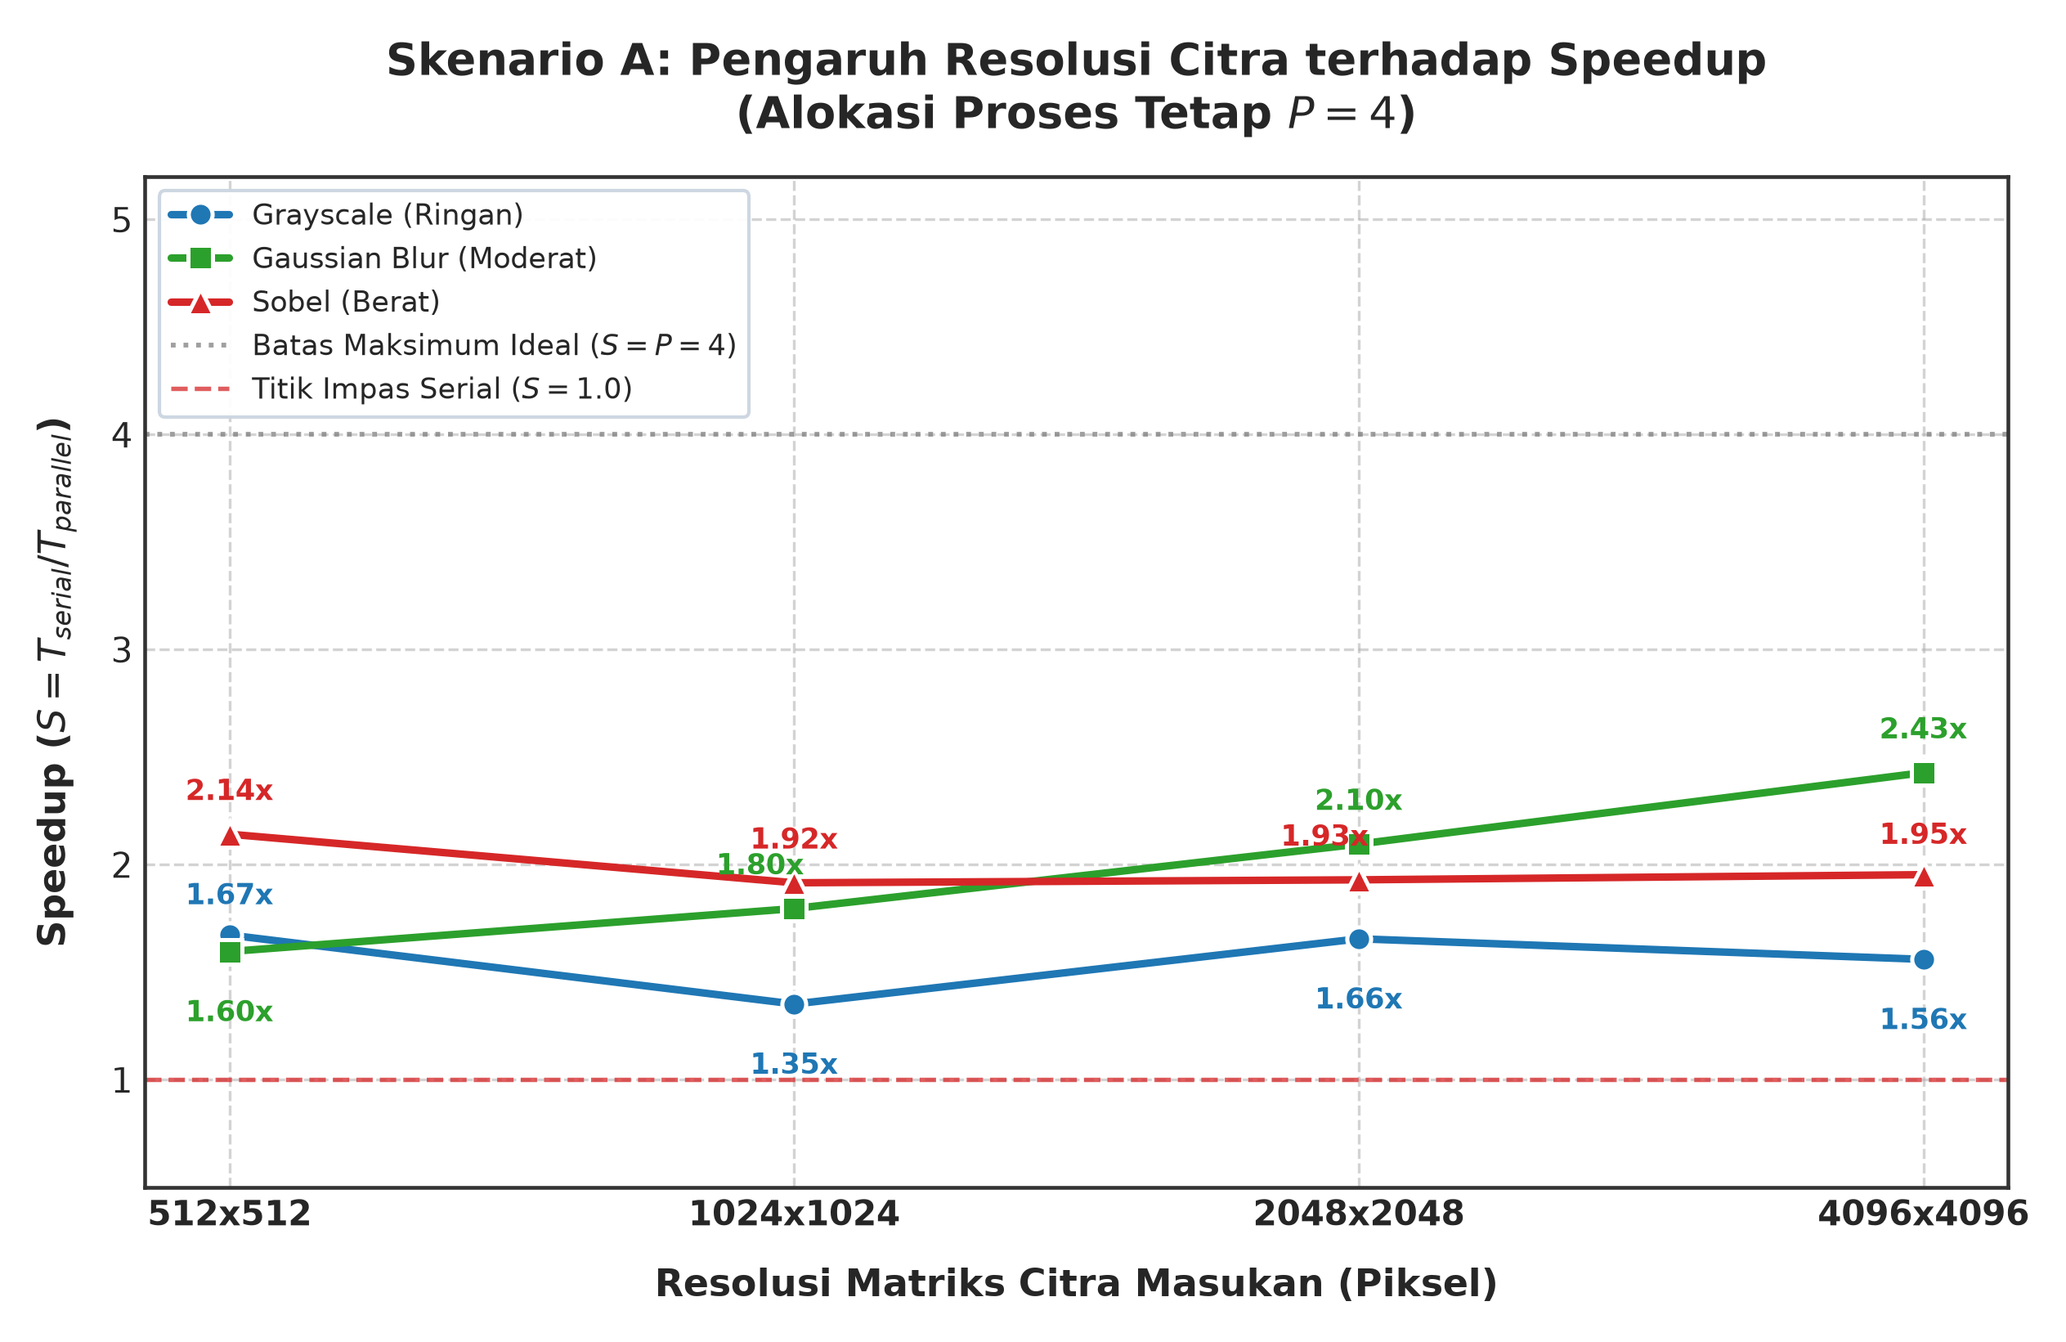
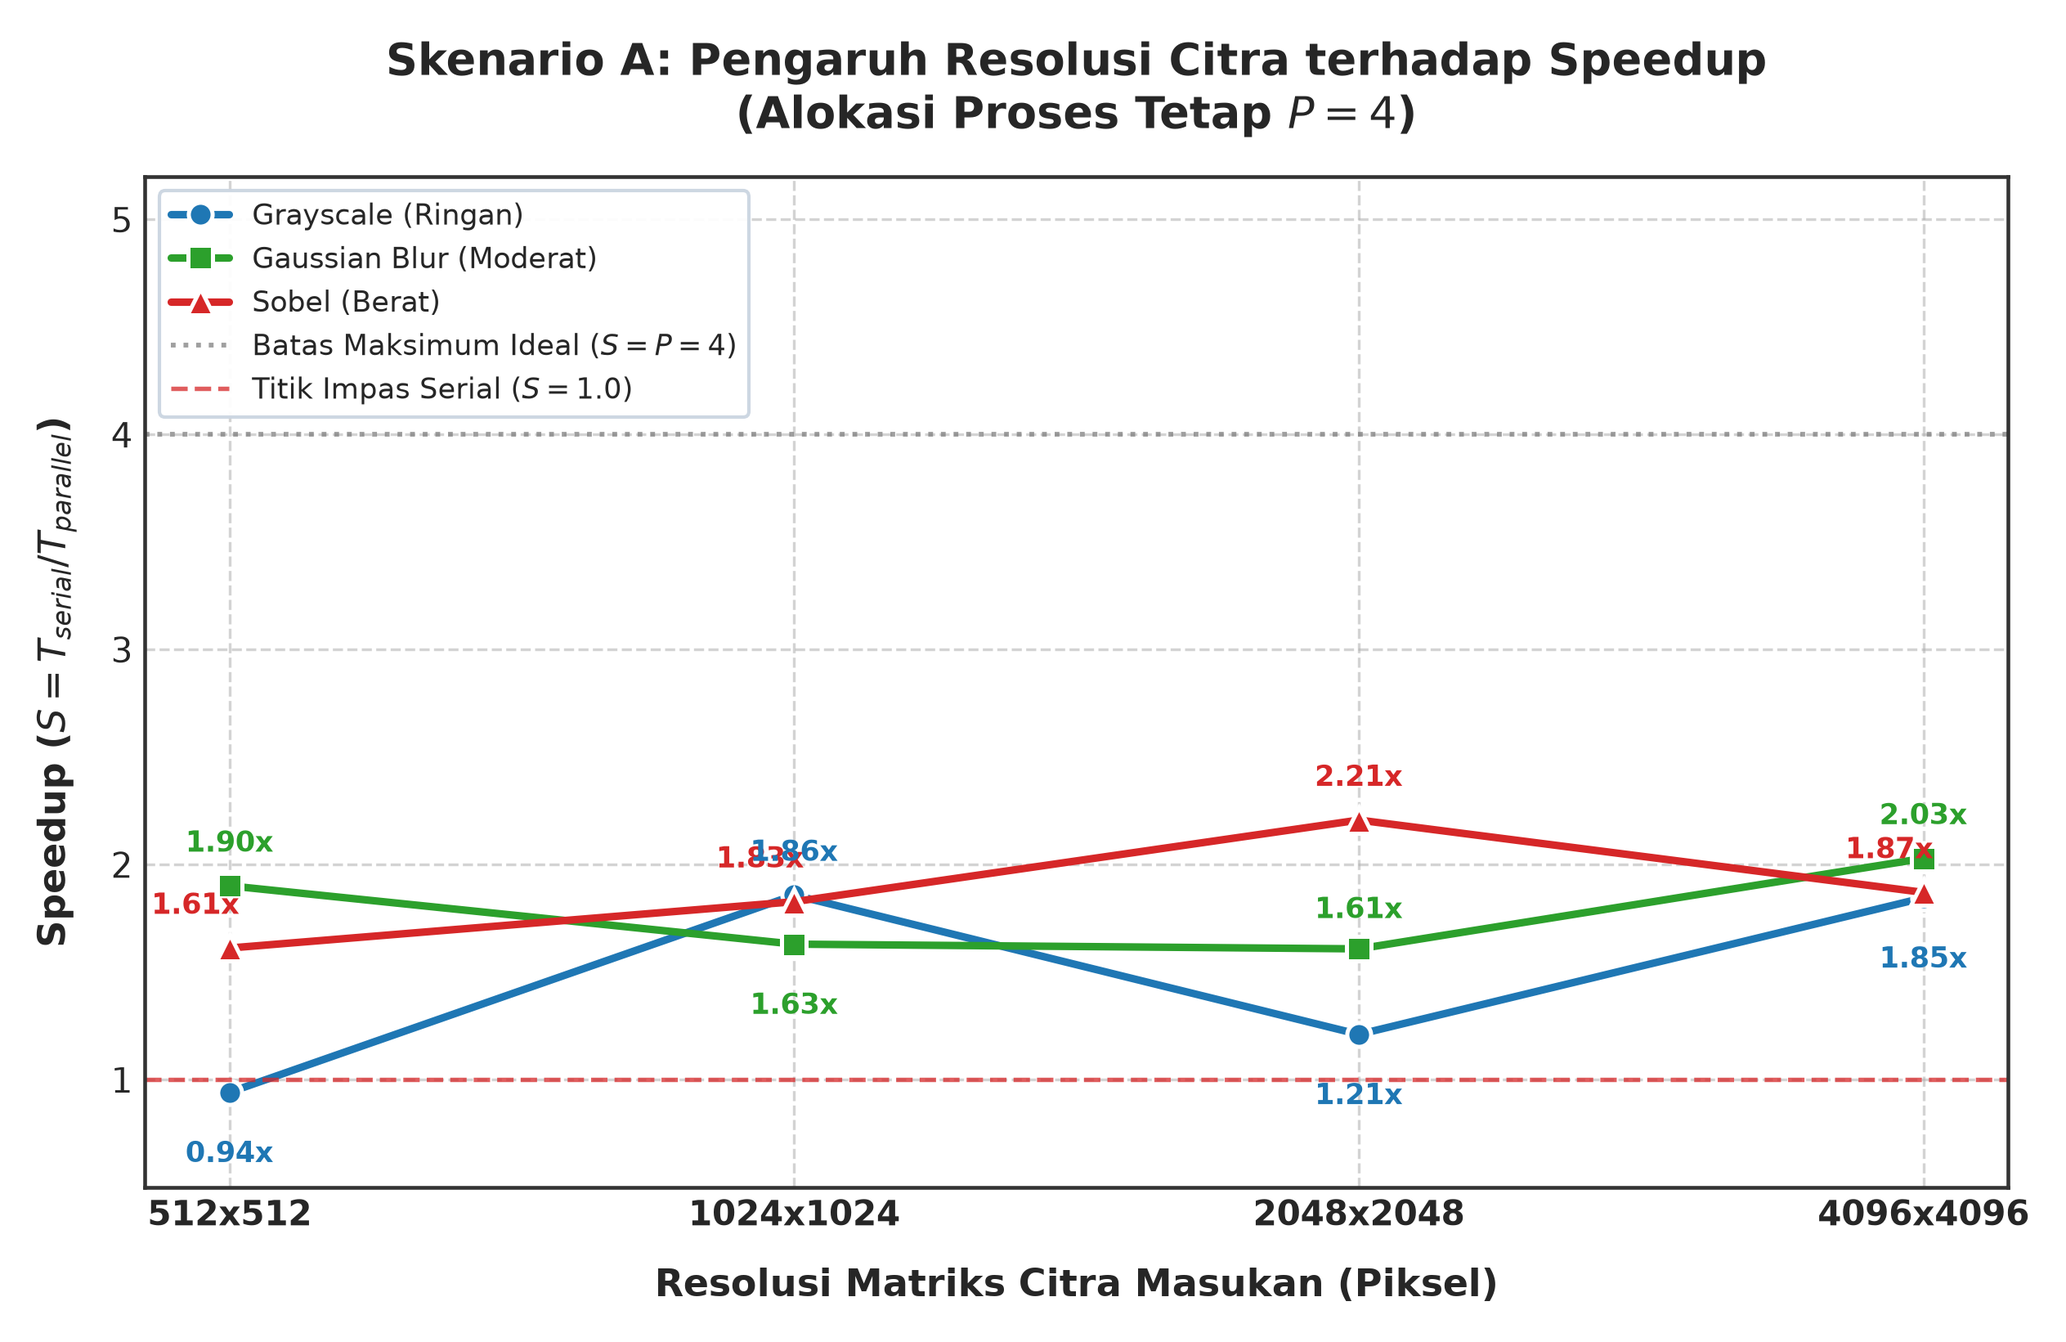
feat(visualization): add chart download features (interactive canvas PNG and publication 300 DPI plots)

diff --git a/web/templates/index.html b/web/templates/index.html
@@ -550,12 +550,15 @@
               </table>
             </div>
 
-            <div class="grid gap-3 sm:grid-cols-3">
+            <div class="grid gap-3 sm:grid-cols-2 lg:grid-cols-4">
               <button class="btn btn-secondary" id="bench-dl-raw" type="button" disabled>
                 <span data-icon="download"></span><span class="btn-label">Data Mentah</span>
               </button>
               <button class="btn btn-secondary" id="bench-dl-summary" type="button" disabled>
                 <span data-icon="download"></span><span class="btn-label">Ringkasan</span>
+              </button>
+              <button class="btn btn-secondary" id="bench-dl-plots" type="button" disabled title="Unduh kumpulan gambar grafik publikasi ilmiah (300 DPI) dalam format ZIP">
+                <span data-icon="image"></span><span class="btn-label">Plot Laporan (300 DPI)</span>
               </button>
               <button class="btn btn-secondary" id="bench-chart-refresh" type="button" disabled>
                 <span data-icon="trending-up"></span><span class="btn-label">Segarkan Grafik</span>
@@ -647,6 +650,12 @@
               </div>
             </div>
 
+            <div class="flex items-center justify-between pt-1">
+              <span class="caption-small font-semibold text-text-muted">Kurva Karakteristik Amdahl vs Empiris</span>
+              <button class="btn btn-secondary text-xs py-1 px-2.5" id="btn-dl-amdahl-png" type="button" title="Unduh grafik simulasi Amdahl dalam format PNG">
+                <span data-icon="download"></span> Unduh PNG
+              </button>
+            </div>
             <div class="chart-wrap min-h-[340px]"><canvas id="amdahl-chart"></canvas></div>
             <p class="caption-small">
               Titik-titik empiris (jika tersedia) diambil dari hasil Skenario B pada CSV
@@ -668,28 +677,76 @@
             <span class="badge-capsule">Visualisasi Empiris</span>
           </div>
           <div class="card-body space-y-4">
-            <div>
-              <label class="form-label" for="plot-select">Pilih Grafik Analisis Dinamis</label>
-              <select class="select-input" id="plot-select">
-                <option value="A">Skenario A: Pengaruh Resolusi Citra (512&ndash;4096 px)</option>
-                <option value="B">Skenario B: Skalabilitas Worker &amp; Saturasi Core (P=1..8)</option>
-                <option value="C">Skenario C: Efisiensi Berdasarkan Kompleksitas Algoritma</option>
-              </select>
+            <div class="flex flex-col sm:flex-row sm:items-end justify-between gap-3 border-b border-border/70 pb-3">
+              <div class="flex-1">
+                <label class="form-label" for="plot-select">Pilih Grafik Analisis Dinamis</label>
+                <select class="select-input" id="plot-select">
+                  <option value="A">Skenario A: Pengaruh Resolusi Citra (512&ndash;4096 px)</option>
+                  <option value="B">Skenario B: Skalabilitas Worker &amp; Saturasi Core (P=1..8)</option>
+                  <option value="C">Skenario C: Efisiensi Berdasarkan Kompleksitas Algoritma</option>
+                </select>
+              </div>
+              <div class="flex flex-wrap items-center gap-2">
+                <button class="btn btn-primary text-xs py-1.5 px-3" id="btn-dl-scenario-plot-300dpi" type="button" title="Unduh gambar standar publikasi 300 DPI Matplotlib untuk skenario ini">
+                  <span data-icon="image"></span> Unduh Plot 300 DPI
+                </button>
+                <button class="btn btn-secondary text-xs py-1.5 px-3" id="btn-dl-all-plots-zip" type="button" title="Unduh seluruh plot publikasi ilmiah (A, B, C) dalam satu file ZIP">
+                  <span data-icon="download"></span> Semua Plot (ZIP)
+                </button>
+              </div>
             </div>
 
             <p class="plot-empty-note" id="plot-empty" hidden></p>
 
             <div id="plot-wrap-a" class="space-y-4">
-              <div class="chart-wrap min-h-[260px]"><canvas id="chart-a-time"></canvas></div>
-              <div class="chart-wrap min-h-[260px]"><canvas id="chart-a-speedup"></canvas></div>
+              <div class="space-y-1">
+                <div class="flex items-center justify-between">
+                  <span class="caption-small font-semibold text-text-muted">Waktu Eksekusi Serial (Ts) vs Paralel (Tp)</span>
+                  <button class="btn btn-secondary text-[11px] py-1 px-2 btn-dl-canvas" data-canvas="chart-a-time" data-name="skenario_a_waktu_eksekusi" type="button">
+                    <span data-icon="download"></span> Unduh PNG
+                  </button>
+                </div>
+                <div class="chart-wrap min-h-[260px]"><canvas id="chart-a-time"></canvas></div>
+              </div>
+              <div class="space-y-1">
+                <div class="flex items-center justify-between">
+                  <span class="caption-small font-semibold text-text-muted">Grafik Speedup vs Resolusi Citra</span>
+                  <button class="btn btn-secondary text-[11px] py-1 px-2 btn-dl-canvas" data-canvas="chart-a-speedup" data-name="skenario_a_speedup" type="button">
+                    <span data-icon="download"></span> Unduh PNG
+                  </button>
+                </div>
+                <div class="chart-wrap min-h-[260px]"><canvas id="chart-a-speedup"></canvas></div>
+              </div>
             </div>
-            <div id="plot-wrap-b" hidden>
+            <div id="plot-wrap-b" class="space-y-1" hidden>
+              <div class="flex items-center justify-between">
+                <span class="caption-small font-semibold text-text-muted">Kurva Skalabilitas Worker (P=1..8) vs Batas Teoretis Amdahl</span>
+                <button class="btn btn-secondary text-[11px] py-1 px-2 btn-dl-canvas" data-canvas="chart-b" data-name="skenario_b_skalabilitas_worker" type="button">
+                  <span data-icon="download"></span> Unduh PNG
+                </button>
+              </div>
               <div class="chart-wrap min-h-[340px]"><canvas id="chart-b"></canvas></div>
             </div>
             <div id="plot-wrap-c" hidden>
               <div class="grid gap-3 sm:grid-cols-2">
-                <div class="chart-wrap min-h-[260px]"><canvas id="chart-c-speedup"></canvas></div>
-                <div class="chart-wrap min-h-[260px]"><canvas id="chart-c-eff"></canvas></div>
+                <div class="space-y-1">
+                  <div class="flex items-center justify-between">
+                    <span class="caption-small font-semibold text-text-muted">Speedup per Filter</span>
+                    <button class="btn btn-secondary text-[11px] py-1 px-2 btn-dl-canvas" data-canvas="chart-c-speedup" data-name="skenario_c_speedup" type="button">
+                      <span data-icon="download"></span> Unduh PNG
+                    </button>
+                  </div>
+                  <div class="chart-wrap min-h-[260px]"><canvas id="chart-c-speedup"></canvas></div>
+                </div>
+                <div class="space-y-1">
+                  <div class="flex items-center justify-between">
+                    <span class="caption-small font-semibold text-text-muted">Efisiensi Paralel per Filter (%)</span>
+                    <button class="btn btn-secondary text-[11px] py-1 px-2 btn-dl-canvas" data-canvas="chart-c-eff" data-name="skenario_c_efisiensi" type="button">
+                      <span data-icon="download"></span> Unduh PNG
+                    </button>
+                  </div>
+                  <div class="chart-wrap min-h-[260px]"><canvas id="chart-c-eff"></canvas></div>
+                </div>
               </div>
             </div>
           </div>

diff --git a/web/static/js/charts.js b/web/static/js/charts.js
@@ -104,6 +104,35 @@
     scales: baseScales(),
   });
 
+  /* ------------------------------------------------------------ export utilities */
+  ChartsTab.downloadCanvasAsPng = function (canvasId, fileName) {
+    const canvas = document.getElementById(canvasId);
+    if (!canvas) {
+      console.warn(`Canvas dengan ID "${canvasId}" tidak ditemukan.`);
+      return;
+    }
+    try {
+      // Buat canvas sementara berlatar putih pekat (mencegah latar transparan saat di-paste ke Word)
+      const exportCanvas = document.createElement("canvas");
+      exportCanvas.width = canvas.width;
+      exportCanvas.height = canvas.height;
+      const ctx = exportCanvas.getContext("2d");
+      ctx.fillStyle = "#FFFFFF";
+      ctx.fillRect(0, 0, exportCanvas.width, exportCanvas.height);
+      ctx.drawImage(canvas, 0, 0);
+
+      const url = exportCanvas.toDataURL("image/png");
+      const a = document.createElement("a");
+      a.href = url;
+      a.download = fileName.endsWith(".png") ? fileName : `${fileName}.png`;
+      document.body.appendChild(a);
+      a.click();
+      document.body.removeChild(a);
+    } catch (err) {
+      console.error("Gagal mengunduh canvas grafik:", err);
+    }
+  };
+
   /* ------------------------------------------------------------ init */
   ChartsTab.init = async function () {
     ChartsTab.booted = true;
@@ -111,6 +140,41 @@
     $("amdahl-f").addEventListener("input", ChartsTab.rebuildAmdahl);
     $("amdahl-p").addEventListener("input", ChartsTab.rebuildAmdahl);
     ChartsTab.rebuildAmdahl();
+
+    // Unduh PNG canvas simulasi Amdahl
+    const btnAmdahl = $("btn-dl-amdahl-png");
+    if (btnAmdahl) {
+      btnAmdahl.addEventListener("click", () => {
+        const f = Number($("amdahl-f").value).toFixed(2);
+        ChartsTab.downloadCanvasAsPng("amdahl-chart", `simulasi_kurva_hukum_amdahl_f${f}`);
+      });
+    }
+
+    // Unduh PNG per kanvas grafik empiris
+    document.querySelectorAll(".btn-dl-canvas").forEach((btn) => {
+      btn.addEventListener("click", () => {
+        const targetId = btn.getAttribute("data-canvas");
+        const name = btn.getAttribute("data-name") || "grafik_komputasi_paralel";
+        ChartsTab.downloadCanvasAsPng(targetId, name);
+      });
+    });
+
+    // Unduh plot publikasi ilmiah 300 DPI Matplotlib per skenario aktif
+    const btnScenPlot = $("btn-dl-scenario-plot-300dpi");
+    if (btnScenPlot) {
+      btnScenPlot.addEventListener("click", () => {
+        const which = $("plot-select").value || "A";
+        window.location.assign(`/api/benchmark/plots/single/${which}`);
+      });
+    }
+
+    // Unduh paket lengkap seluruh plot 300 DPI dalam arsip ZIP
+    const btnZip = $("btn-dl-all-plots-zip");
+    if (btnZip) {
+      btnZip.addEventListener("click", () => {
+        window.location.assign("/api/benchmark/plots/bundle/zip");
+      });
+    }
 
     $("plot-select").addEventListener("change", ChartsTab.renderScenario);
     await ChartsTab.refreshData();

diff --git a/web/static/js/benchmark.js b/web/static/js/benchmark.js
@@ -62,12 +62,16 @@
     $("bench-run").addEventListener("click", BenchTab.runBatch);
     $("bench-cancel").addEventListener("click", BenchTab.cancel);
 
-    // Unduhan CSV
-    ["bench-dl-raw", "bench-dl-summary"].forEach((id) => {
-      $(id).addEventListener("click", () => {
+    // Unduhan CSV & Plot Laporan
+    ["bench-dl-raw", "bench-dl-summary", "bench-dl-plots"].forEach((id) => {
+      const el = $(id);
+      if (!el) return;
+      el.addEventListener("click", () => {
         const url = id === "bench-dl-raw"
           ? "/api/benchmark/results/raw-csv"
-          : "/api/benchmark/results/summary-csv";
+          : id === "bench-dl-summary"
+          ? "/api/benchmark/results/summary-csv"
+          : "/api/benchmark/plots/bundle/zip";
         window.location.assign(url);
       });
     });
@@ -197,6 +201,7 @@
       $("bench-summary-details").hidden = true;
       $("bench-dl-raw").disabled = true;
       $("bench-dl-summary").disabled = true;
+      if ($("bench-dl-plots")) $("bench-dl-plots").disabled = true;
       $("bench-chart-refresh").disabled = true;
       App.setBtnLabel("bench-dl-raw", "Data Mentah");
       App.setBtnLabel("bench-dl-summary", "Ringkasan");
@@ -228,6 +233,7 @@
       .join("");
     $("bench-dl-raw").disabled = false;
     $("bench-dl-summary").disabled = false;
+    if ($("bench-dl-plots")) $("bench-dl-plots").disabled = false;
     App.setBtnLabel("bench-dl-raw", `Data Mentah (${res.count} Baris)`);
     $("bench-chart-refresh").disabled = false;
   };

diff --git a/web/backend/routes/benchmark.py b/web/backend/routes/benchmark.py
@@ -16,12 +16,14 @@ Endpoint:
 import io
 import json
 import logging
+import zipfile
+from pathlib import Path
 from typing import Any, Dict, List, Optional
 
 import numpy as np
 from fastapi import APIRouter, HTTPException
 from fastapi.concurrency import run_in_threadpool
-from fastapi.responses import StreamingResponse
+from fastapi.responses import FileResponse, StreamingResponse
 from pydantic import BaseModel, Field
 
 from ..services import bridge
@@ -277,6 +279,110 @@ async def export_summary_csv():
         headers={
             "Content-Disposition": (
                 'attachment; filename="benchmark_results_summary.csv"'
+            )
+        },
+    )
+
+
+# ---------------------------------------------------------------------------
+# Generator & Unduhan Plot Publikasi Ilmiah 300 DPI (Matplotlib)
+# ---------------------------------------------------------------------------
+def _ensure_plots_generated(force: bool = False) -> Dict[str, Path]:
+    csv_path = bridge.BENCH_CSV_PATH
+    if not csv_path.exists():
+        raise LookupError("Belum ada berkas CSV hasil benchmark untuk membuat grafik.")
+
+    plots_dir = bridge.RESULTS_DIR / "plots"
+    plots_dir.mkdir(parents=True, exist_ok=True)
+
+    from src.visualizer import plot_scenario_a, plot_scenario_b, plot_scenario_c
+
+    plot_files = {
+        "A": plots_dir / "skenario_a_resolusi.png",
+        "B": plots_dir / "skenario_b_amdahl.png",
+        "C": plots_dir / "skenario_c_kompleksitas.png",
+    }
+
+    csv_mtime = csv_path.stat().st_mtime
+    for scen, ppath in plot_files.items():
+        if force or not ppath.exists() or ppath.stat().st_mtime < csv_mtime:
+            try:
+                if scen == "A":
+                    plot_scenario_a(str(csv_path), output_path=str(ppath))
+                elif scen == "B":
+                    plot_scenario_b(str(csv_path), output_path=str(ppath))
+                elif scen == "C":
+                    plot_scenario_c(str(csv_path), output_path=str(ppath))
+            except Exception as exc:
+                logger.warning("Gagal men-generate plot Skenario %s: %s", scen, exc)
+
+    return plot_files
+
+
+def _build_plots_zip_bytes() -> bytes:
+    plot_files = _ensure_plots_generated(force=False)
+    buf = io.BytesIO()
+    with zipfile.ZipFile(buf, "w", zipfile.ZIP_DEFLATED) as z:
+        for scen, ppath in plot_files.items():
+            if ppath.exists():
+                z.write(ppath, arcname=ppath.name)
+        readme = (
+            "=========================================================================\n"
+            "PAKET GRAFIK PUBLIKASI ILMIAH KOMPUTASI PARALEL (300 DPI)\n"
+            "Laboratorium Komputasi Paralel & Pemrosesan Citra - FMIPA UNTAN\n"
+            "=========================================================================\n\n"
+            "Berkas grafik ini dihasilkan secara otomatis dari data empiris benchmark:\n"
+            "Lokasi data: results/benchmark_results_latest.csv\n\n"
+            "Daftar Grafik:\n"
+            "1. skenario_a_resolusi.png     : Kurva Speedup vs Variasi Resolusi (512-4096 px) pada P=4\n"
+            "2. skenario_b_amdahl.png       : Evaluasi Skalabilitas Worker (P=1,2,4,8) vs Batas Hukum Amdahl\n"
+            "3. skenario_c_kompleksitas.png : Perbandingan Kompleksitas Filter, Overhead, & Utilisasi CPU\n\n"
+            "Standar Format: Resolusi 300 DPI, bounding box ketat, tipografi publikasi jurnal.\n"
+        )
+        z.writestr("README_GRAFIK.txt", readme)
+    return buf.getvalue()
+
+
+@router.get("/plots/single/{scenario}", summary="Unduh satu plot publikasi ilmiah 300 DPI")
+async def download_single_plot(scenario: str):
+    """Mengunduh gambar plot 300 DPI siap cetak untuk skenario tertentu (A, B, atau C)."""
+    scen_upper = scenario.strip().upper()
+    if scen_upper not in ("A", "B", "C"):
+        raise HTTPException(status_code=400, detail="Skenario harus 'A', 'B', atau 'C'")
+
+    try:
+        plot_files = await run_in_threadpool(_ensure_plots_generated, force=False)
+    except LookupError as exc:
+        raise HTTPException(status_code=404, detail=str(exc)) from None
+
+    target_path = plot_files.get(scen_upper)
+    if not target_path or not target_path.exists():
+        raise HTTPException(
+            status_code=404, detail=f"Plot untuk Skenario {scen_upper} belum tersedia"
+        )
+
+    filename = f"plot_skenario_{scen_upper.lower()}_300dpi.png"
+    return FileResponse(
+        path=target_path,
+        media_type="image/png",
+        filename=filename,
+    )
+
+
+@router.get("/plots/bundle/zip", summary="Unduh seluruh plot publikasi 300 DPI dalam arsip ZIP")
+async def download_plots_bundle():
+    """Mengunduh seluruh grafik publikasi 300 DPI (A, B, C) dalam paket ZIP siap laporan."""
+    try:
+        zip_bytes = await run_in_threadpool(_build_plots_zip_bytes)
+    except LookupError as exc:
+        raise HTTPException(status_code=404, detail=str(exc)) from None
+
+    return StreamingResponse(
+        iter([zip_bytes]),
+        media_type="application/zip",
+        headers={
+            "Content-Disposition": (
+                'attachment; filename="plots_publikasi_ilmiah_300dpi.zip"'
             )
         },
     )
